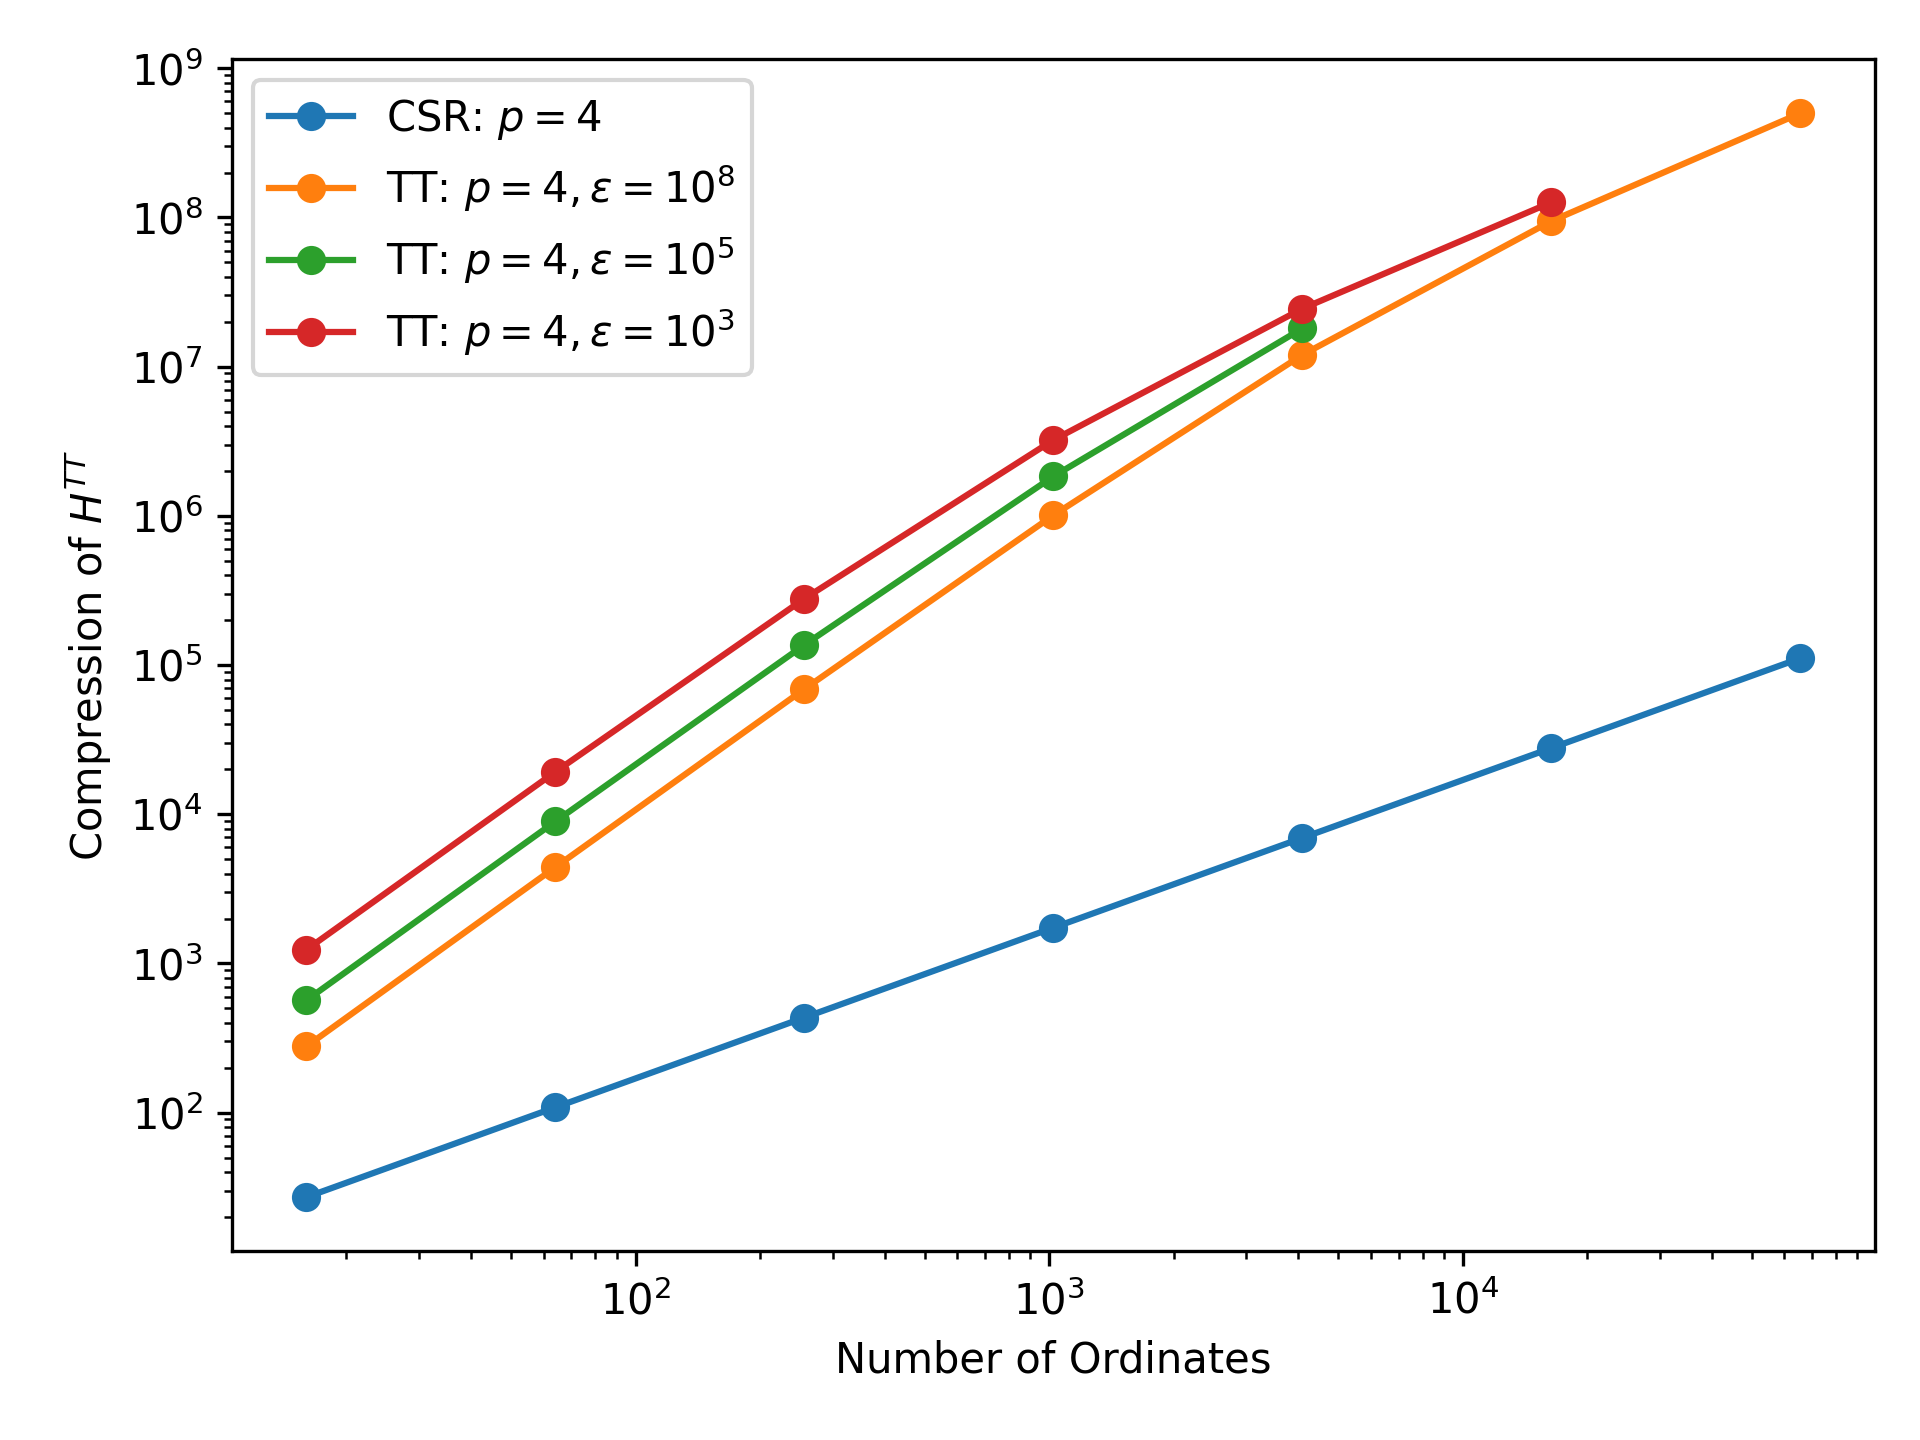
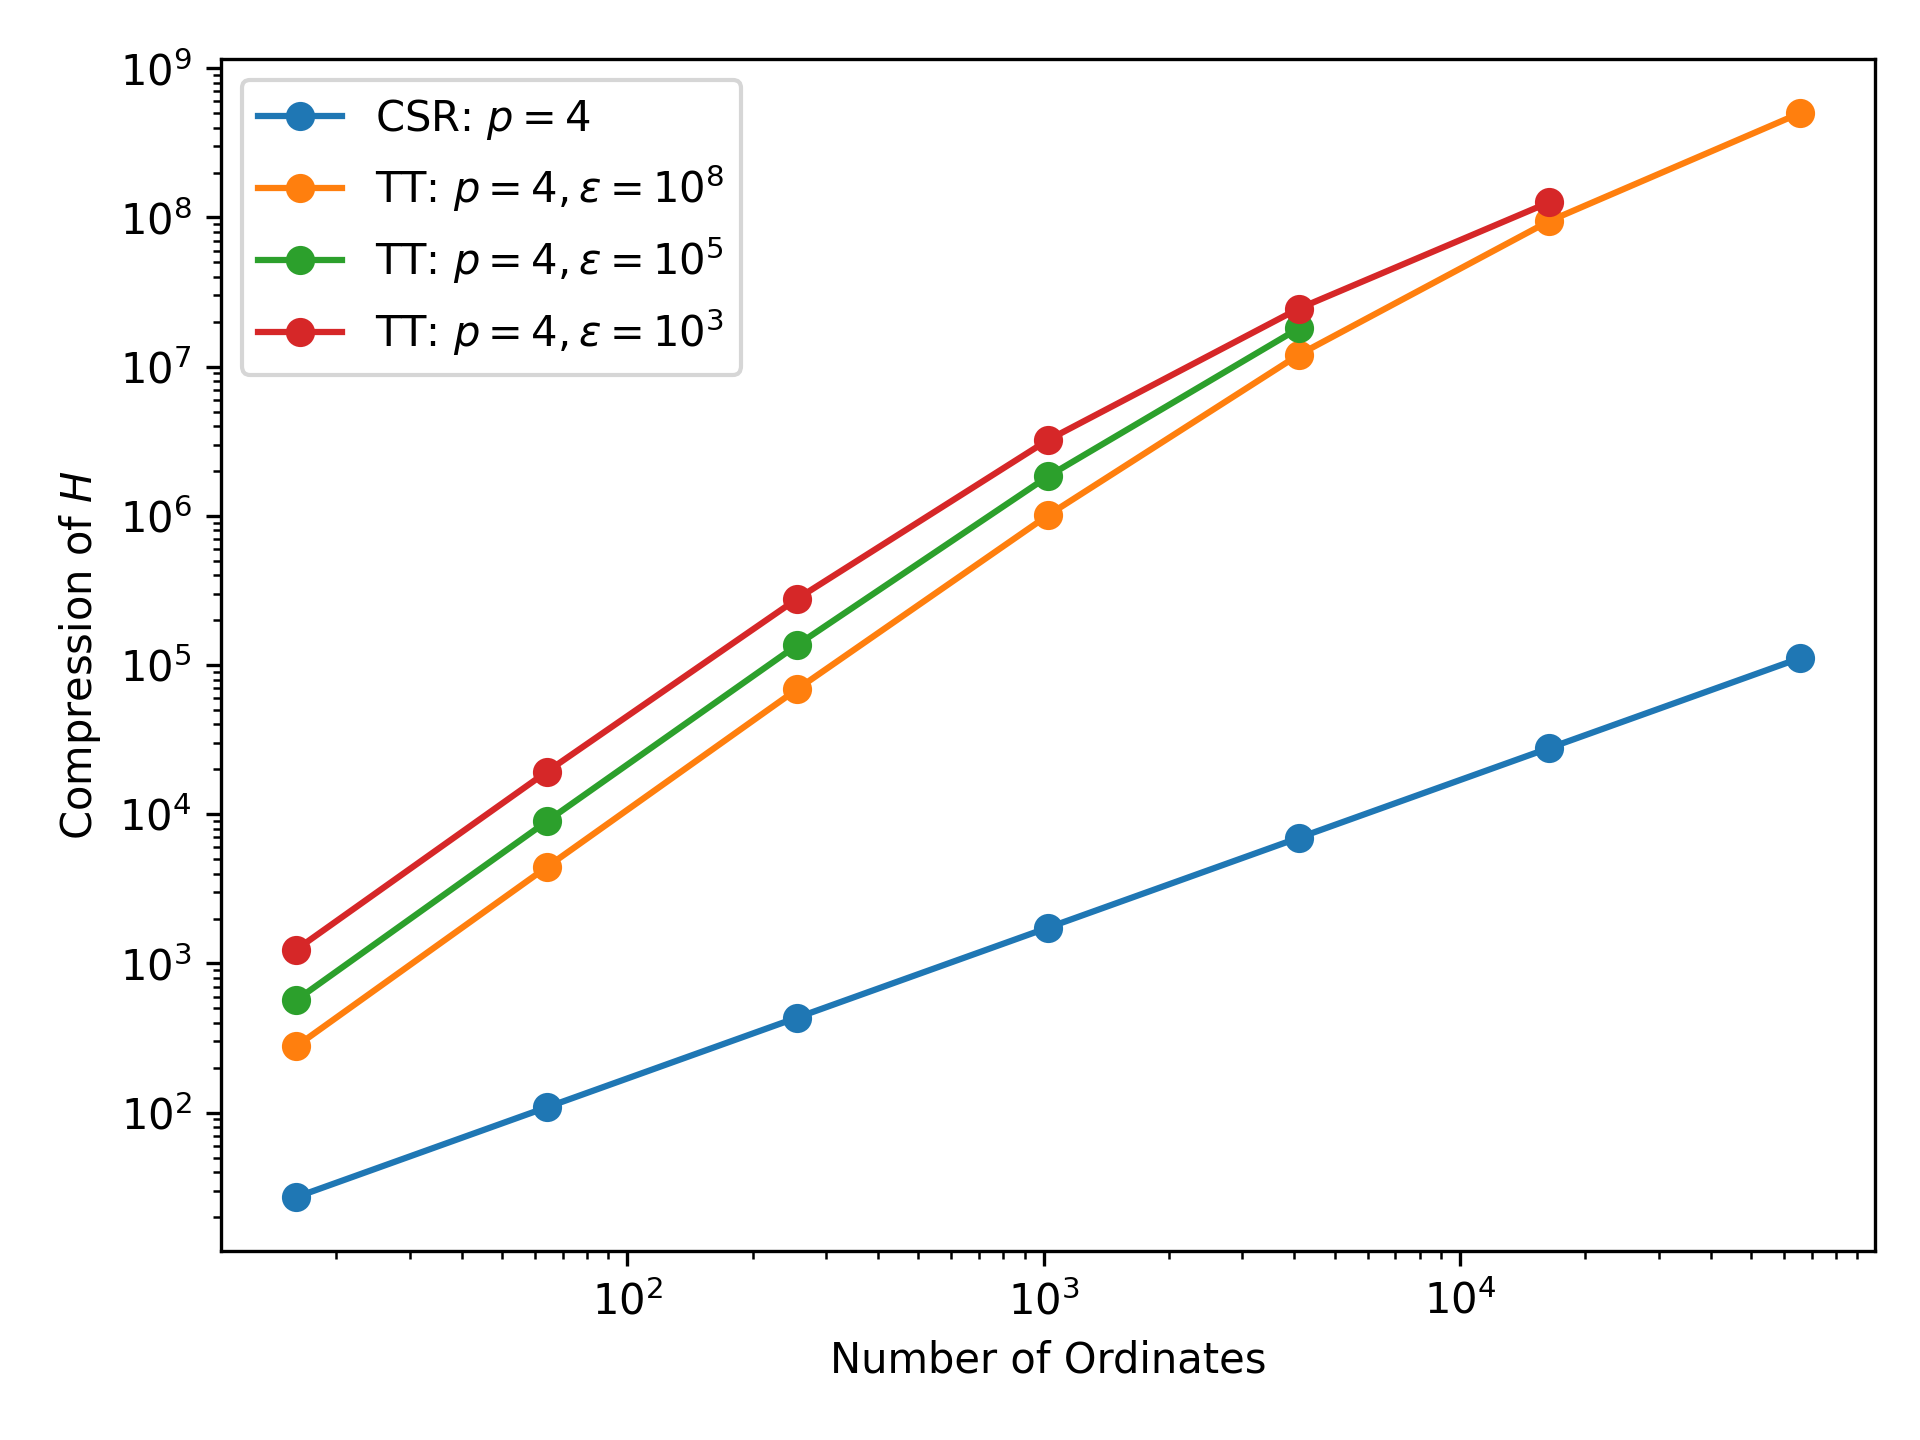
remove tt from label

diff --git a/fixed_source/circle/plotting.py b/fixed_source/circle/plotting.py
@@ -347,7 +347,7 @@ if __name__ == "__main__":
                     label=f"TT: $p={degree},\\epsilon={eps2str(eps[i])}$",
                 )
             plt.xlabel("Number of Ordinates")
-            plt.ylabel(f"Compression of ${prettyOp(op, 'TT')}$")
+            plt.ylabel(f"Compression of ${prettyOp(op, '')}$")
             plt.xscale("log")
             plt.yscale("log")
             plt.legend()
